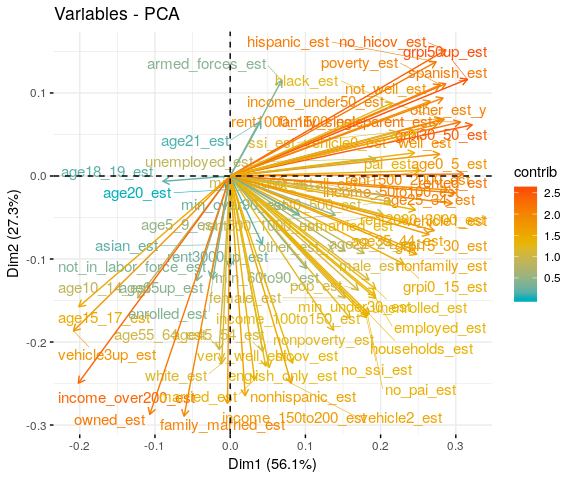
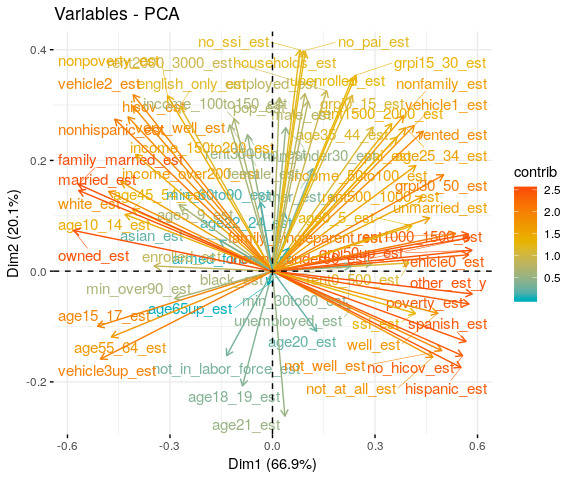
Updating initial dimensional analysis of ACS data, and ACS + Fairfax Housing Stock Data (recall originally FF Housing described one dimension on it's own). - Q

diff --git a/src/pca_example/pca_example.md b/src/pca_example/pca_example.md
@@ -203,7 +203,7 @@ fviz_eig(pca.cor.sv)
 
 ``` r
 #Feature map
-fviz_pca_var(pca.cor.hs,
+fviz_pca_var(pca.cor.sv,
              col.var = "contrib",
              gradient.cols = c("#00AFBB", "#E7B800", "#FC4E07"),
              repel = TRUE)
@@ -211,7 +211,7 @@ fviz_pca_var(pca.cor.hs,
 
 <img src="pca_example_files/figure-markdown_github/unnamed-chunk-8-2.png" width="90%" />
 
-#### Highschool + Housing Stock
+#### ACS + Housing Stock
 
 ``` r
 ffh.highschool.df <- read_csv("./data/working/Fairfax_Housing_2018/fairfax_housing_2018_geo.csv") %>%
@@ -242,3 +242,127 @@ ffh.district.df<- read_csv("./data/working/Fairfax_Housing_2018/fairfax_housing_
     dplyr::select(-c(data)) %>%
   unnest() 
 ```
+
+Here, looking at the median number of housing units, bedrooms, and bathrooms; the results are almost consistent across all units of geography meaning that median number of housing units is not a good measure (perhaps another quantile %?), and bedrooms and bathrooms should just be categorical to begin with. So for now, we will remove those and continue dimensional analysis with only the true numeric variables (year\_built, long, lat, value(s), and living area). To do so, we join the acs and housing stock estimates like so:
+
+``` r
+total.highschool.df  <- left_join(ffh.highschool.df,
+                                 acs.df %>%
+                                 filter(id_type %in% "highschool_district") %>%
+                                 dplyr::select(-id_type) %>%
+                                 dplyr::select(-contains('moe')),
+                                 by = "id") %>%
+  dplyr::select(-c(num_units, bedrooms, bathrooms))
+
+total.supervisor.df <- left_join(ffh.district.df,
+                                 acs.df %>%
+                                 filter(id_type %in% "supervisor_district") %>%
+                                 dplyr::select(-id_type) %>%
+                                 dplyr::select(-contains('moe')),
+                                 by = "id") %>%
+  dplyr::select(-c(num_units, bedrooms, bathrooms))
+```
+
+##### ACS + Housing; Highschool
+
+``` r
+#Grabe PC's from Correlation matrix
+pca.cor.hs <- total.highschool.df %>% 
+  dplyr::select_if(is.numeric) %>%
+  cor() %>%
+  princomp()
+
+#Parallel analysis
+#highschool.df %>% select_if(is.numeric) %>% fa.parallel()
+
+#Scree Plot for correlation components
+fviz_eig(pca.cor.hs)
+```
+
+<img src="pca_example_files/figure-markdown_github/unnamed-chunk-11-1.png" width="90%" />
+
+``` r
+#Feature map
+fviz_pca_var(pca.cor.hs,
+             col.var = "contrib",
+             gradient.cols = c("#00AFBB", "#E7B800", "#FC4E07"),
+             repel = TRUE)
+```
+
+<img src="pca_example_files/figure-markdown_github/unnamed-chunk-11-2.png" width="90%" />
+
+``` r
+#Plot of Singular Values
+tibble(
+  `Singular Values` = pca.cor.hs$sdev %>% sort(., decreasing = TRUE),
+  order = 1:length(`Singular Values`) 
+) %>%
+  ggplot(aes(x = order, y = `Singular Values`)) +
+  geom_line(colour = "black", alpha = 0.72, size = 1) +
+  geom_point(aes(size = `Singular Values`, colour = `Singular Values`)) +
+  scale_colour_viridis_c("Singular Values") +
+  scale_size_continuous("Singular Values") + 
+  labs(
+    x = "Order",
+    y = "Singular Values",
+    title = "Highschool Correlation Ordered Singular Values"
+  )
+```
+
+<img src="pca_example_files/figure-markdown_github/unnamed-chunk-11-3.png" width="90%" />
+
+Overall, we see that there is not necessarily convincing evidence that more than two dimensions exist within the combined ACS + Housing stock data by Highschool district. The plot of the features in PCA space does show that the Median agregated FF Housing Stock Variables (found in green in the lower right), are clearly explaining variance in a very different direction from the other variables; however the lack of magnitude and measuring just the same dimension in the oposite direction (potentially), may not be enought for them to capture a new dimension of the data vs the acs variables.
+
+Overall, I would still investigate a 1-4 Factor model, but most likely 2 or 3 factor will be sufficient for a good model.
+
+##### ACS + Housing; Supervisor
+
+``` r
+#Grabe PC's from Correlation matrix
+pca.cor.sv <- total.supervisor.df %>% 
+  dplyr::select_if(is.numeric) %>%
+  cor() %>%
+  princomp()
+
+#Parallel analysis
+#highschool.df %>% select_if(is.numeric) %>% fa.parallel()
+
+#Scree Plot for correlation components
+fviz_eig(pca.cor.sv)
+```
+
+<img src="pca_example_files/figure-markdown_github/unnamed-chunk-12-1.png" width="90%" />
+
+``` r
+#Feature map
+fviz_pca_var(pca.cor.sv,
+             col.var = "contrib",
+             gradient.cols = c("#00AFBB", "#E7B800", "#FC4E07"),
+             repel = TRUE)
+```
+
+<img src="pca_example_files/figure-markdown_github/unnamed-chunk-12-2.png" width="90%" />
+
+``` r
+#Plot of Singular Values
+tibble(
+  `Singular Values` = pca.cor.sv$sdev %>% sort(., decreasing = TRUE),
+  order = 1:length(`Singular Values`) 
+) %>%
+  ggplot(aes(x = order, y = `Singular Values`)) +
+  geom_line(colour = "black", alpha = 0.72, size = 1) +
+  geom_point(aes(size = `Singular Values`, colour = `Singular Values`)) +
+  scale_colour_viridis_c("Singular Values") +
+  scale_size_continuous("Singular Values") + 
+  labs(
+    x = "Order",
+    y = "Singular Values",
+    title = "Supervisor Correlation Ordered Singular Values"
+  )
+```
+
+<img src="pca_example_files/figure-markdown_github/unnamed-chunk-12-3.png" width="90%" />
+
+Considering the ACS + FF Housing stock data at the Supervisor district level, there is actual sufficient evidence to suggest that at least 3 distinct dimensions exist within these data (by *λ* ≥ 1 and % variance explanation). Further, this is corroborated by the features in pca space plot, as the spread and orthogonality of the FF Housing stock variables (at median, found in green primarily at the top) compared to the rest of the higher magnitude ACS variables suggests it is actually picking up another significant dimension seperate of the ACS data.
+
+Overall, I would reccomend investigating 2-5 Factor models, which a suggestion that the 3 Factor model will fit the best.
